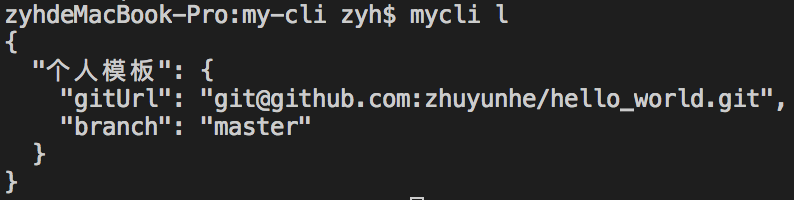
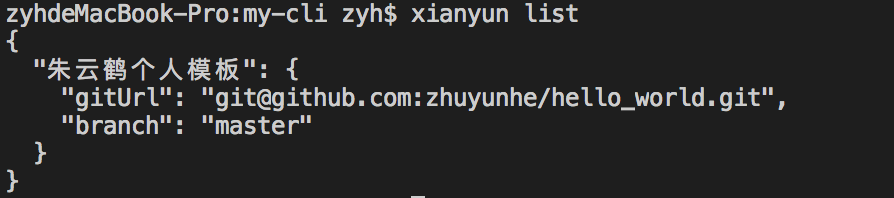
zyh

diff --git a/command/init.js b/command/init.js
@@ -29,7 +29,7 @@ module.exports = () => {
 
   const downloadAndGenerate = (branch, gitUrl) => {
     //    var tmp = os.tmpdir() + '/peon-template-' + uid();
-    var tmp = __dirname + './peon-template-' + uid();
+    var tmp = './peon-template-' + uid();
     var base_temp = tmp                 // 保留原始临时文件目录
     var spinner = ora('下载模板仓库');
     spinner.start();
@@ -39,7 +39,6 @@ module.exports = () => {
       exec(cmdStr, (error, stdout, stderr) => {
         // 进程结束时，删除临时文件目录
         process.on('exit', function (error) {
-          console.log('tmp: ' + tmp)
           if(error){
             console.log(error)
           }

diff --git a/command/add.js b/command/add.js
@@ -9,7 +9,7 @@ module.exports = () => {
     {
       type: 'input',
       name: 'templateName',
-      message: "你要使用的模板名称?",
+      message: "你要添加的模板名称?",
       validate: function (value) {
         var pass = value.match(
           /[-_a-zA-Z0-9]/i

diff --git a/readme.md b/readme.md
@@ -1,6 +1,7 @@
-# 闲云野鹤  
+# xianyun-闲云野鹤  
 自产一个脚手架工具，可以从任何远程仓库中获取你需要的文件。  
-一般用来获取一些模板文件，用于项目前期快速开始。
+一般用来获取一些模板文件，用于项目前期快速开始。  
+如果你有一些自己的模板文件仓库，或者任意github仓库，xianyun可以帮你从这些仓库中快速复制一些文件到你本地项目下。
 
 ## xianyun
 
@@ -22,7 +23,13 @@ npm i xianyun -g
 ![](./screenshot/add.png)
 
 #### xianyun init or xianyun i  
-使用一个模板
+使用一个模板  
+
+---
+![](./screenshot/init.png)  
 
 #### xianyun delete or xianyun d  
-删除一个模板
+删除一个模板  
+
+---
+![](./screenshot/delete.png)
